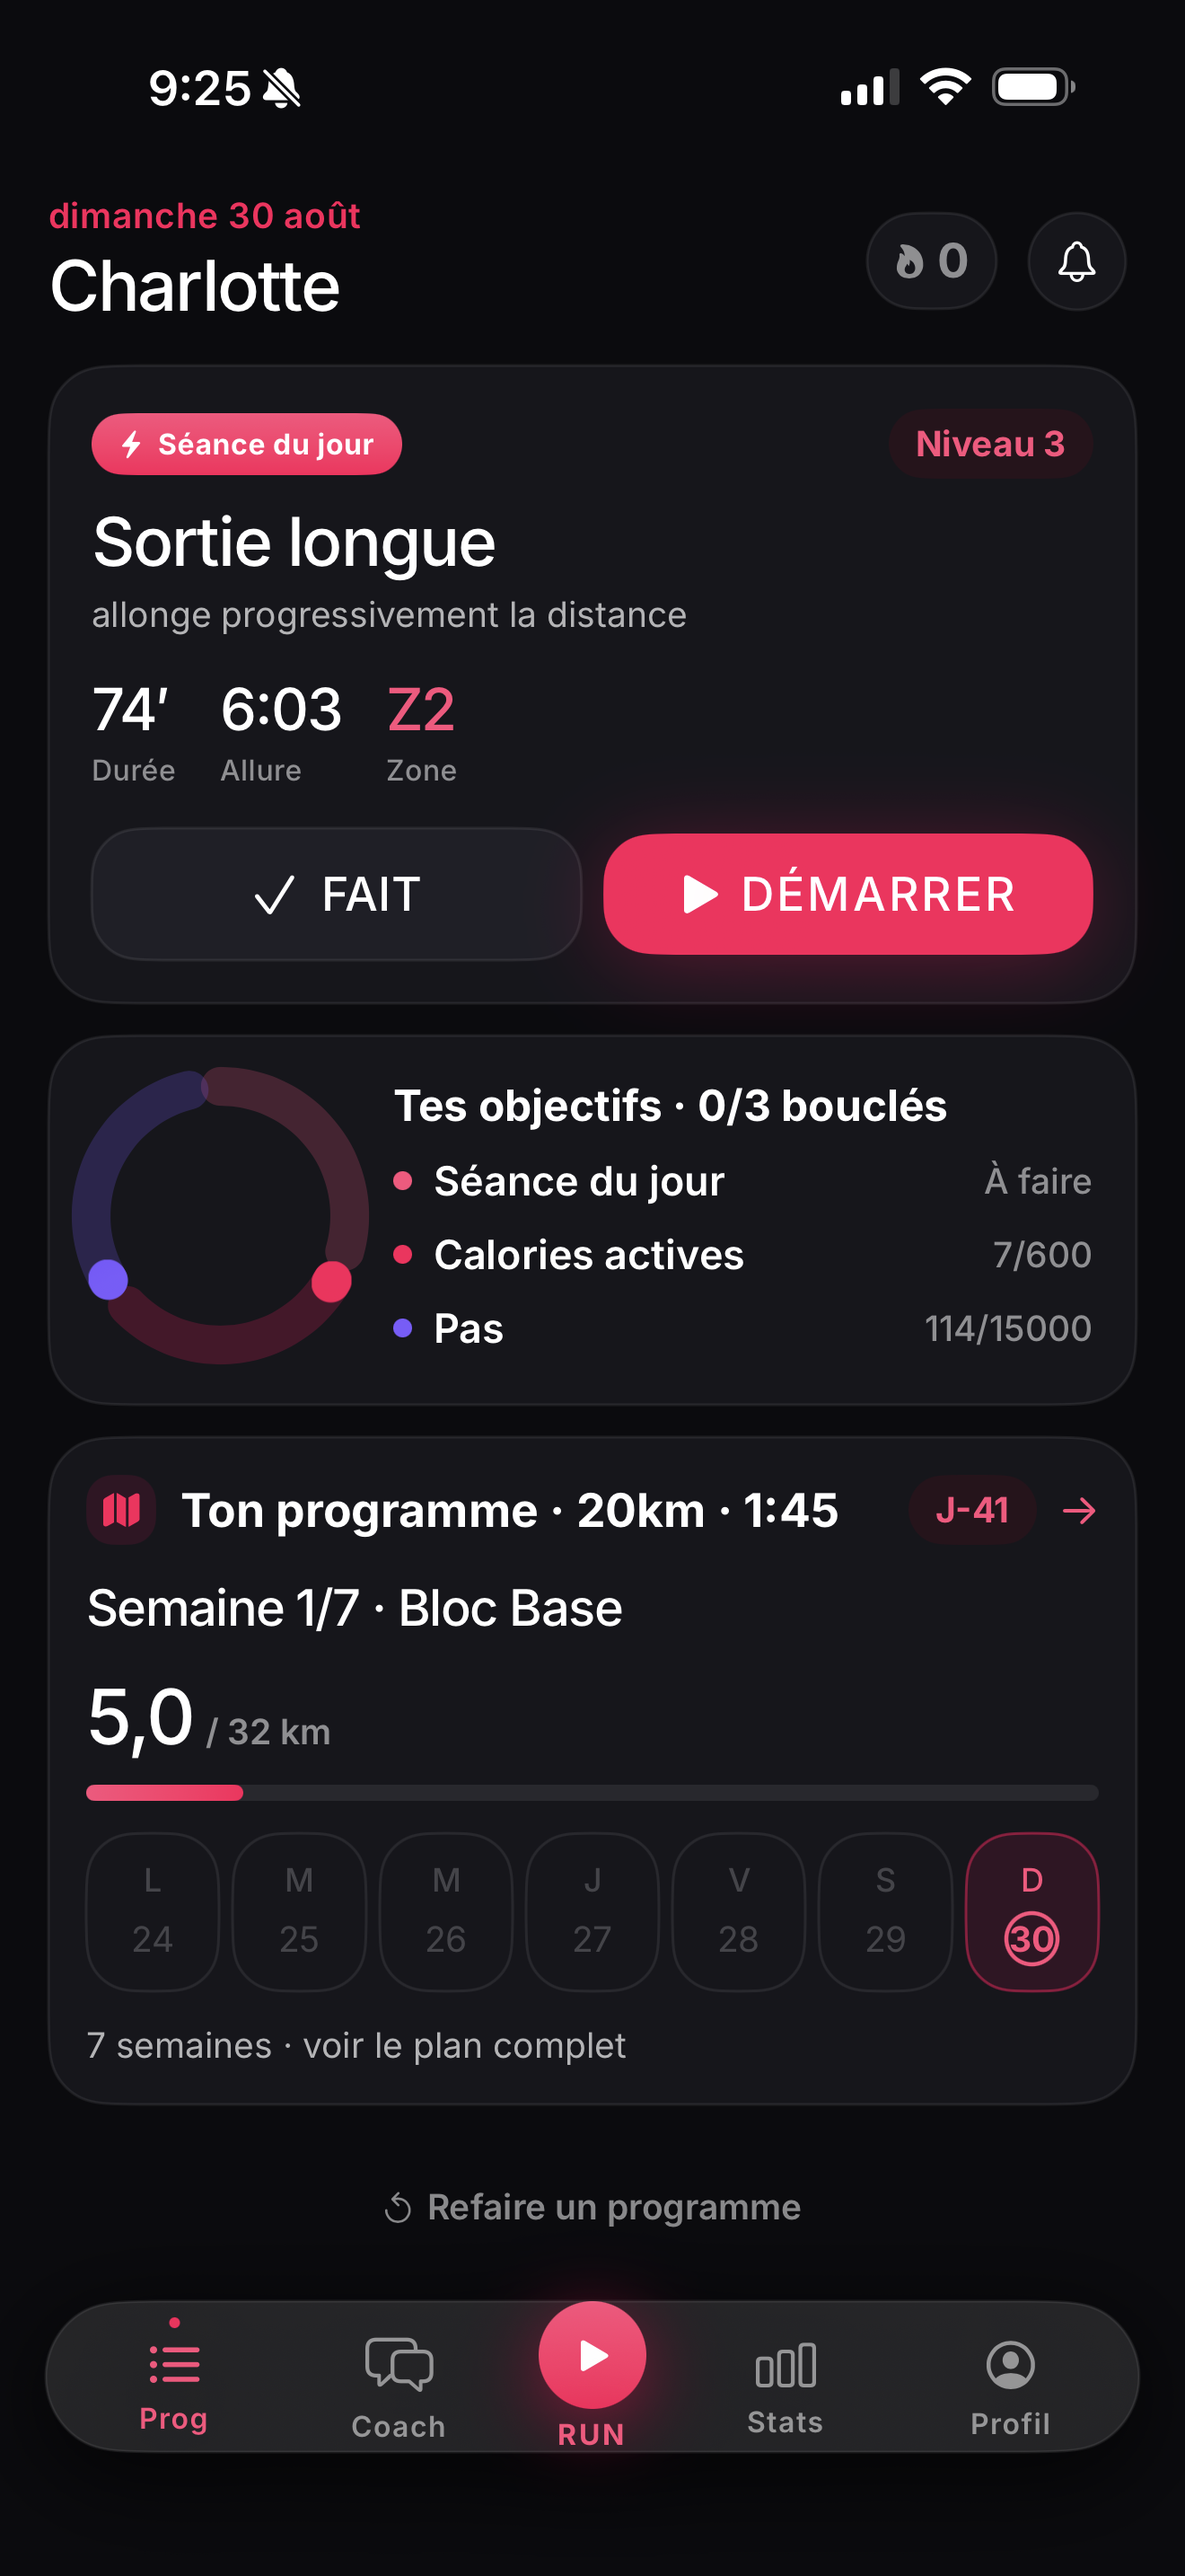
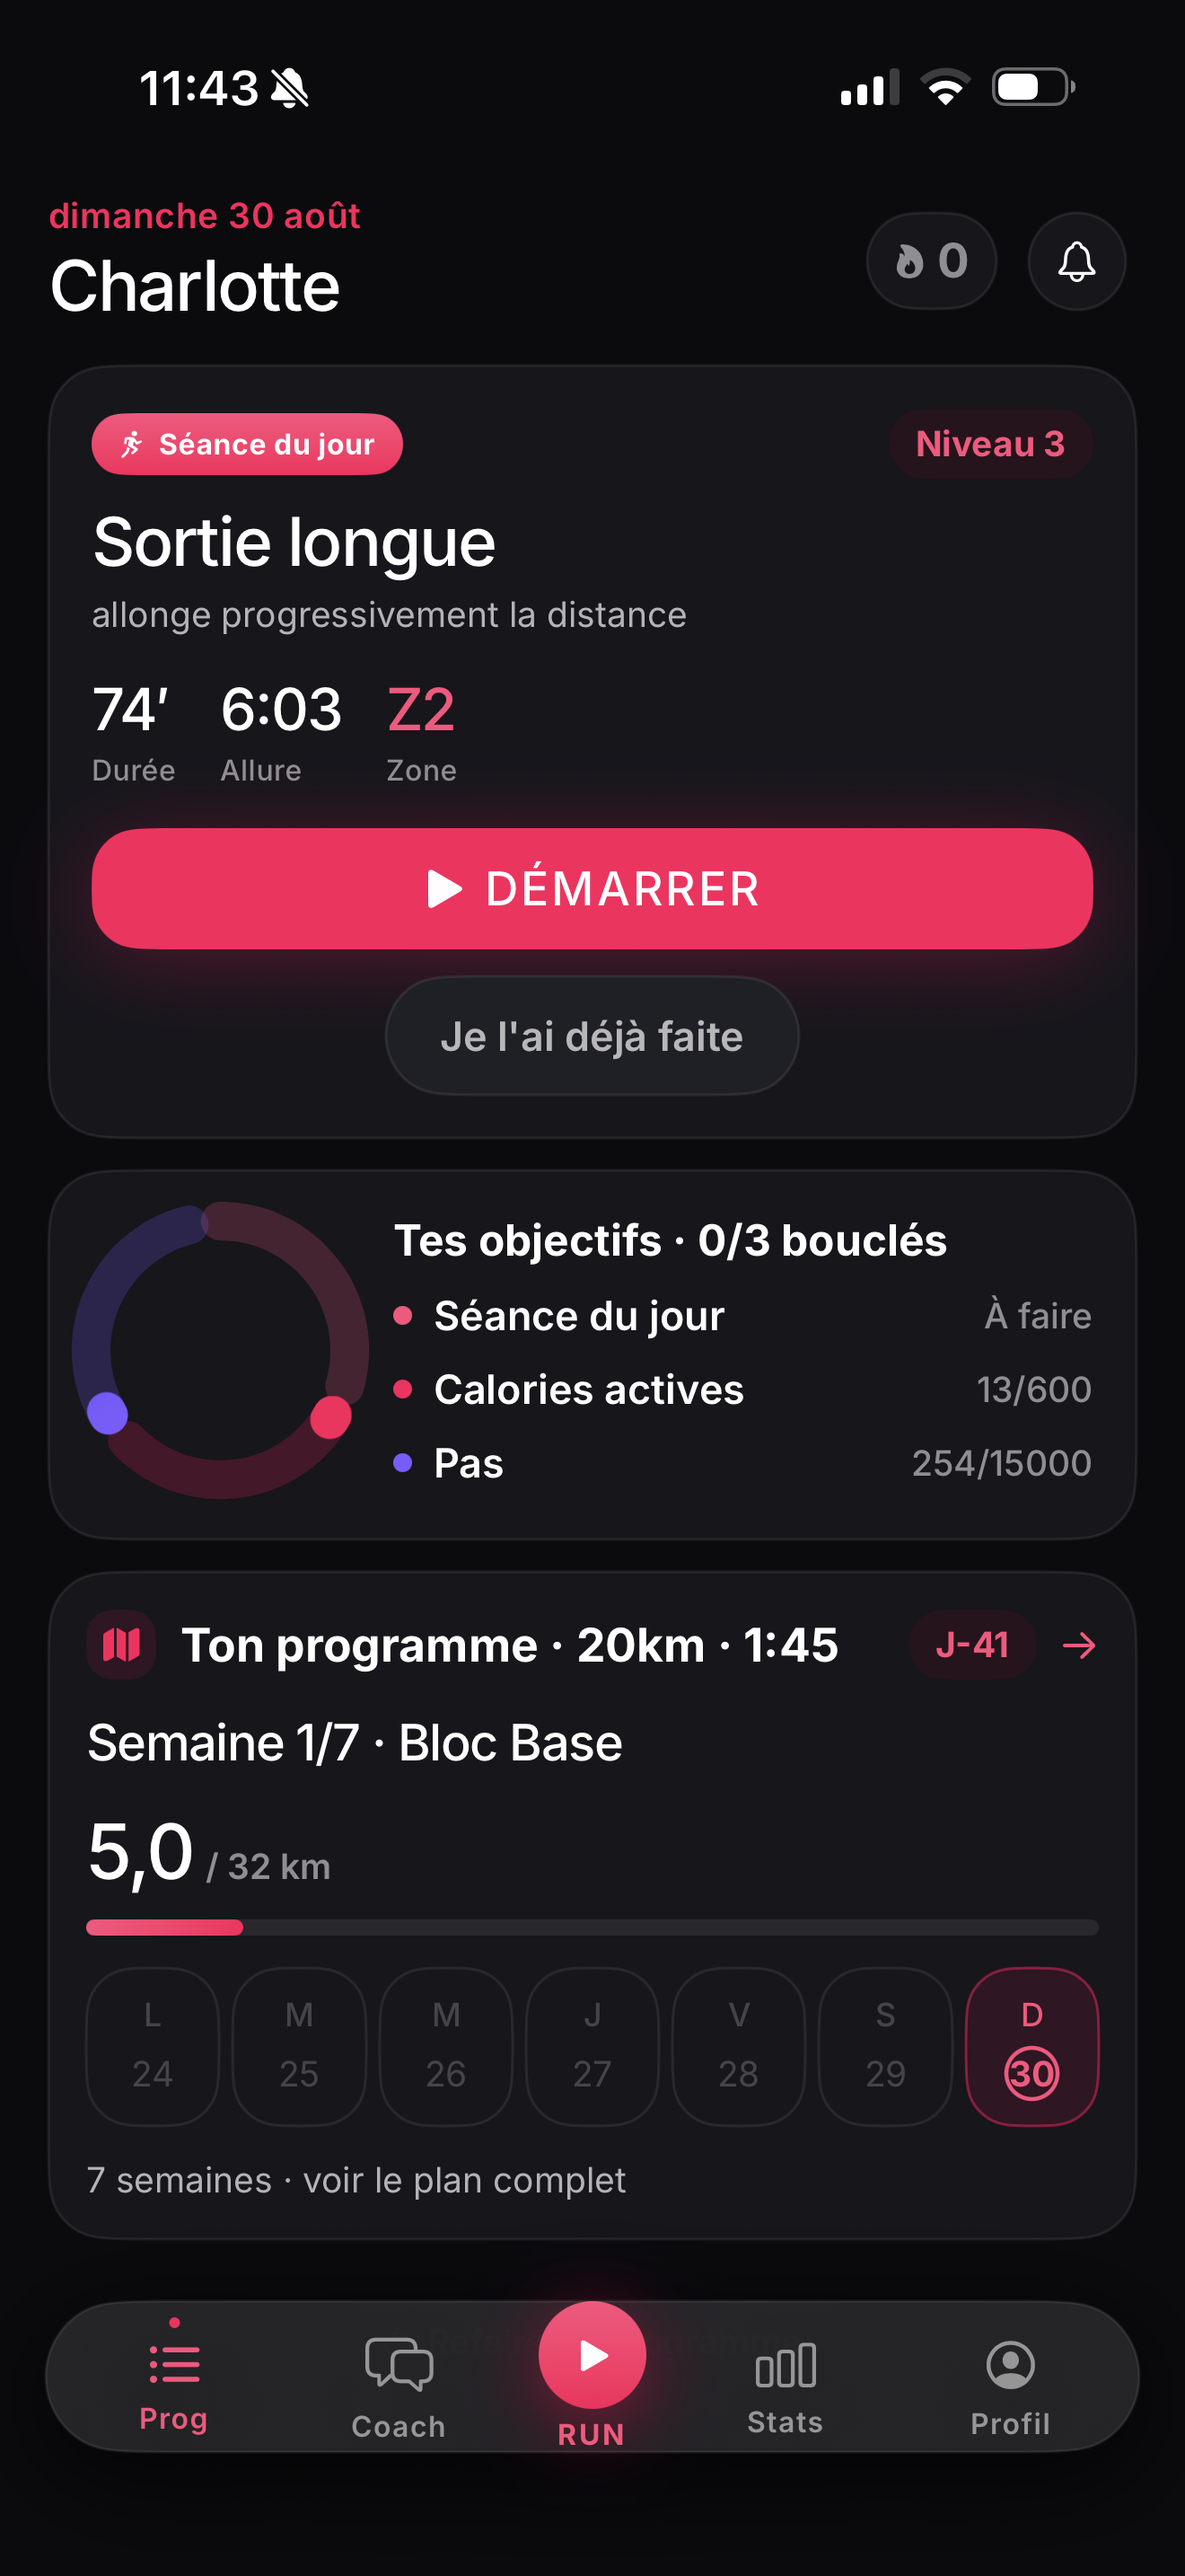
Publier à cinq captures, et refuser deux fichiers pour un même rang
Le Club sort de la série. Sa capture montrait un club d'un membre, zéro
kilomètre cumulé, aucun défi et aucune sortie prévue, sous l'accroche « Tu ne
cours pas seul » — la seule image censée porter ce que la concurrence n'a pas,
et elle prouvait que personne ne s'en sert. Le rang 4 reste réservé : la capture
se remettra à sa place quand le club aura des membres, et une capture s'ajoute à
une fiche sans nouvelle revue.

Le composeur refuse maintenant deux fichiers pour un même rang. Le cas vient
d'arriver : l'iPhone nomme ses captures en `.PNG`, le dossier contenait des
`.png`, et `1-accueil.PNG` a cohabité avec `1-accueil.png` — l'ancienne version
de l'écran et la nouvelle, revendiquant la même accroche. En écrasant
silencieusement, le composeur aurait tranché selon l'ordre de tri, c'est-à-dire
au hasard de qui dépose les fichiers, et aurait pu publier l'ancienne.

Et `ci_scripts/screenshots.py` rejoint les chemins qui ne déclenchent pas de
construction. Un fichier précis et non le dossier : `prepare_project.sh` vit à
côté et fabrique le binaire, l'exclure en bloc laisserait passer un changement
qui change l'app.

diff --git a/ci_scripts/screenshots.py b/ci_scripts/screenshots.py
@@ -449,15 +449,28 @@ def main() -> int:
     # du partage hérite de l'accroche du club, les suivantes décalent, et rien ne le signale. On
     # ne s'en aperçoit qu'en regardant la fiche publiée. Tant que les captures viennent d'un
     # iPhone et s'appellent `IMG_9143.PNG`, le repli positionnel reste le seul choix possible.
-    ranked = {}
+    ranked: dict[int, Path] = {}
     for shot in shots:
         digits = ""
         for char in shot.name:
             if not char.isdigit():
                 break
             digits += char
-        if digits:
-            ranked[int(digits)] = shot
+        if not digits:
+            continue
+        rank = int(digits)
+        # Deux fichiers pour le même rang, et il faut s'arrêter.
+        #
+        # Le cas n'a rien de théorique : l'iPhone nomme ses captures en `.PNG`, le dossier
+        # contenait des `.png`, et `1-accueil.PNG` a cohabité avec `1-accueil.png` — l'ancienne
+        # version de l'écran et la nouvelle, côte à côte, revendiquant la même accroche. En
+        # écrasant silencieusement, le composeur aurait choisi selon l'ordre de tri, c'est-à-dire
+        # au hasard du point de vue de qui dépose les fichiers, et aurait pu publier l'ancienne.
+        if rank in ranked:
+            print(f"Deux captures pour le rang {rank} : {ranked[rank].name} et {shot.name}. "
+                  f"Supprime celle qui n'a plus lieu d'être.", file=sys.stderr)
+            return 1
+        ranked[rank] = shot
 
     if ranked and len(ranked) == len(shots):
         unknown = sorted(r for r in ranked if not 1 <= r <= len(texts))
